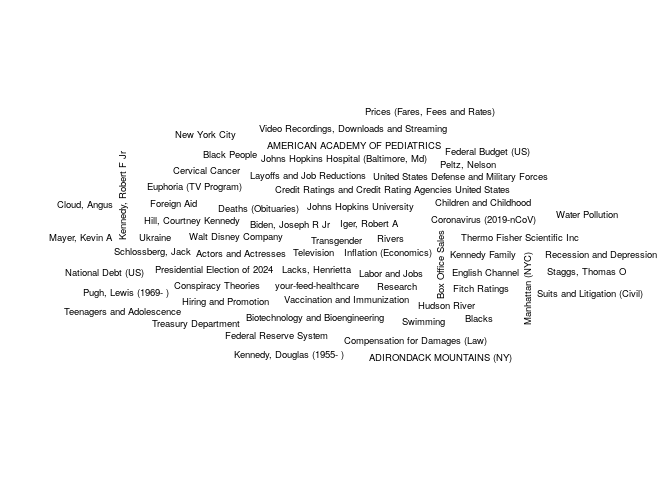
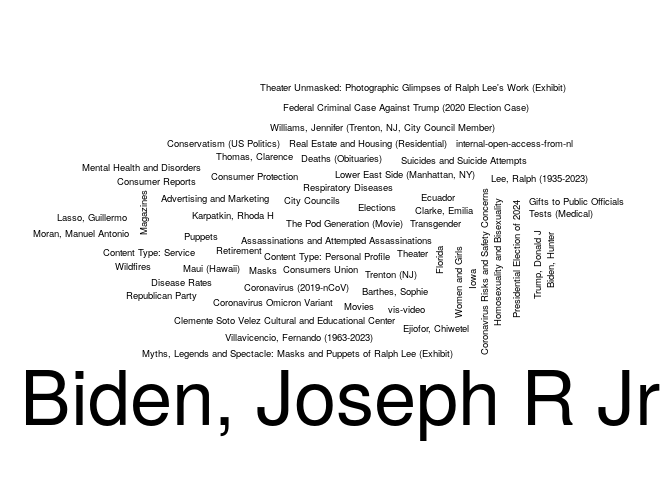
Updating the NYT report

diff --git a/03-nytimes/README.md b/03-nytimes/README.md
@@ -5,7 +5,7 @@ The following is an example of how to use the [NYTimes
 API](https://developer.nytimes.com/) to get a list of articles related
 to a particular term. Here we are searching articles that include the
 term `"health"`, and that were published up to seven days ago since
-2023-08-07.
+2023-08-14.
 
 ``` r
 # Preparing a function to use the GET method with the NYTimes API
@@ -83,25 +83,25 @@ colnames(tab) <- c("Keyword", "# Articles")
 knitr::kable(tab, row.names = FALSE)
 ```
 
-| Keyword                                   | \# Articles |
-|:------------------------------------------|------------:|
-| internal-storyline-no                     |          10 |
-| Medicine and Health                       |          10 |
-| United States Economy                     |          10 |
-| United States Politics and Government     |          10 |
-| Actors and Actresses                      |           5 |
-| ADIRONDACK MOUNTAINS (NY)                 |           5 |
-| AMERICAN ACADEMY OF PEDIATRICS            |           5 |
-| Biden, Joseph R Jr                        |           5 |
-| Biotechnology and Bioengineering          |           5 |
-| Black People                              |           5 |
-| Blacks                                    |           5 |
-| Box Office Sales                          |           5 |
-| Cervical Cancer                           |           5 |
-| Children and Childhood                    |           5 |
-| Cloud, Angus                              |           5 |
-| Compensation for Damages (Law)            |           5 |
-| Conspiracy Theories                       |           5 |
-| Coronavirus (2019-nCoV)                   |           5 |
-| Credit Ratings and Credit Rating Agencies |           5 |
-| Deaths (Obituaries)                       |           5 |
+| Keyword                                             | \# Articles |
+|:----------------------------------------------------|------------:|
+| Biden, Joseph R Jr                                  |          10 |
+| United States Politics and Government               |          10 |
+| Advertising and Marketing                           |           5 |
+| Assassinations and Attempted Assassinations         |           5 |
+| Barthes, Sophie                                     |           5 |
+| Biden, Hunter                                       |           5 |
+| City Councils                                       |           5 |
+| Clarke, Emilia                                      |           5 |
+| Clemente Soto Velez Cultural and Educational Center |           5 |
+| Conservatism (US Politics)                          |           5 |
+| Consumer Protection                                 |           5 |
+| Consumer Reports                                    |           5 |
+| Consumers Union                                     |           5 |
+| Content Type: Personal Profile                      |           5 |
+| Content Type: Service                               |           5 |
+| Coronavirus (2019-nCoV)                             |           5 |
+| Coronavirus Omicron Variant                         |           5 |
+| Coronavirus Risks and Safety Concerns               |           5 |
+| Deaths (Obituaries)                                 |           5 |
+| Disease Rates                                       |           5 |
